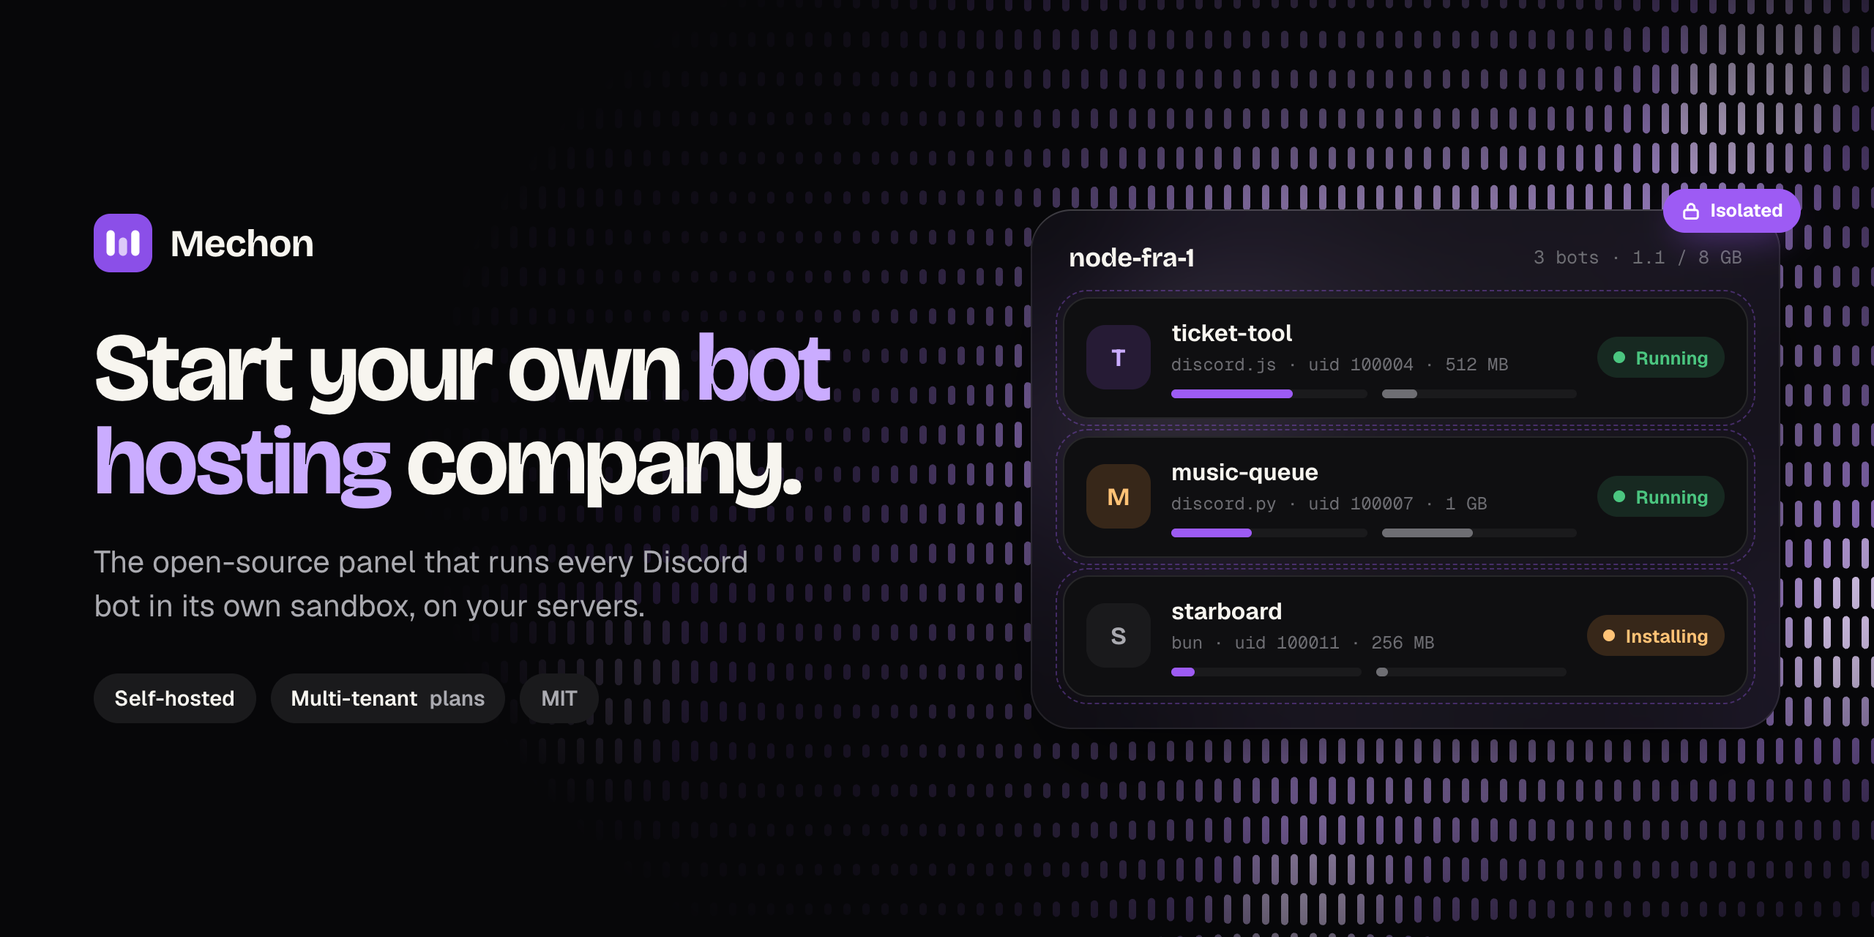
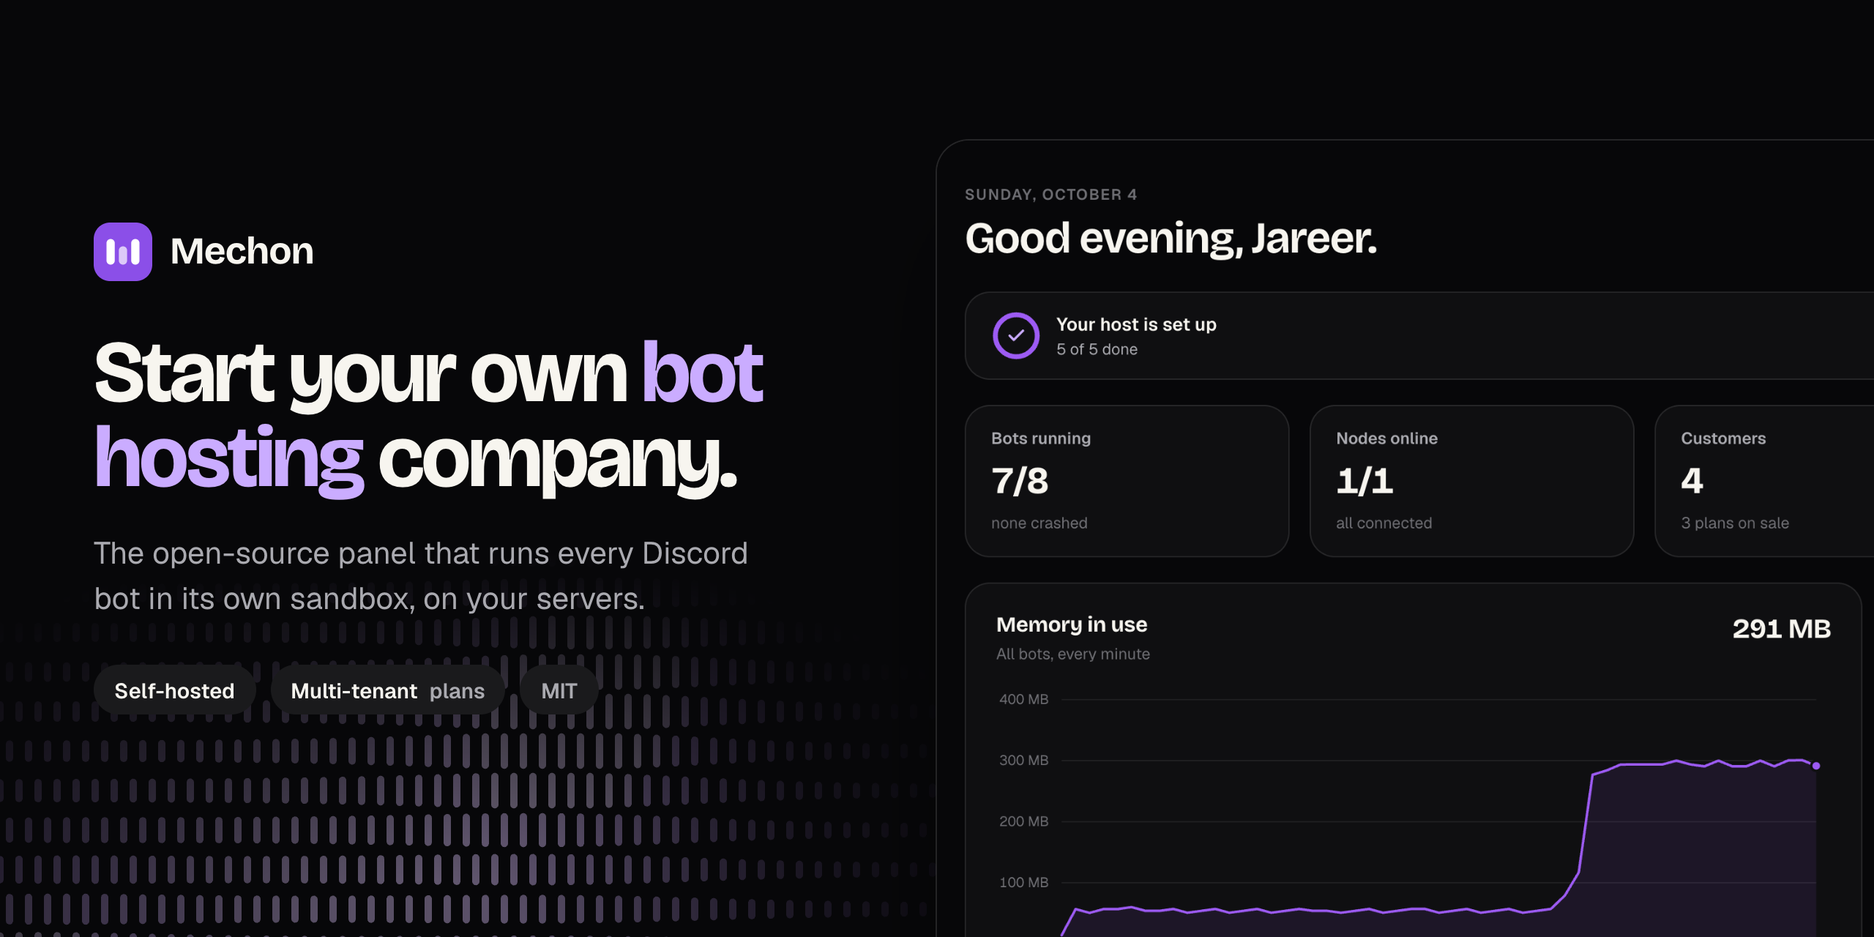
README rewrite with real screenshots of the panel
- Half the length: about, six highlights, a screenshot gallery, the
  math, a three-line quick start and the preview note
- Every image is a real screenshot of the panel running real demo bots
  in the sandbox, framed for both GitHub themes; assets/src/screens.sh
  regenerates them, and the social preview banner now crops the real
  dashboard instead of an illustration
- make run serves the built panel on :8080 for the quick start
- Fix: template badges are readable in the light theme, and the size
  cards no longer orphan their last line

diff --git a/assets/src/banner.html b/assets/src/banner.html
@@ -1,7 +1,7 @@
 <!doctype html>
 <!--
-  Source for assets/banner.png (README hero and GitHub social preview, 1280x640).
-  Render: node assets/src/render.mjs  (needs Chrome and `pnpm install` in web/ for the fonts)
+  Source for assets/banner.png (GitHub social preview, 1280x640). The right side is a real
+  screenshot of the dashboard (shot.png, written by screens.sh). Render: node assets/src/render.mjs
 -->
 <html lang="en">
 <head>
@@ -33,15 +33,15 @@
   html, body { width: 1280px; height: 640px; overflow: hidden; background: var(--bg); color: var(--fg); font-family: Geist, system-ui, sans-serif; -webkit-font-smoothing: antialiased; }
 
   canvas { position: absolute; inset: 0; width: 100%; height: 100%;
-    -webkit-mask-image: radial-gradient(ellipse 70% 90% at 78% 50%, black 30%, transparent 80%); }
+    -webkit-mask-image: radial-gradient(ellipse 55% 60% at 22% 100%, black 10%, transparent 70%); opacity: 0.5; }
 
-  .wrap { position: relative; height: 100%; display: grid; grid-template-columns: 600px 1fr; align-items: center; padding: 0 64px; gap: 40px; }
+  .wrap { position: relative; height: 100%; display: grid; grid-template-columns: 540px; align-items: center; padding: 0 64px; }
 
   .brand { display: flex; align-items: center; gap: 12px; }
   .brand svg { width: 40px; height: 40px; }
   .brand span { font-family: Bricolage; font-weight: 700; font-size: 26px; letter-spacing: -0.02em; }
 
-  h1 { margin-top: 34px; font-family: Bricolage; font-weight: 700; font-size: 66px; line-height: 0.96; letter-spacing: -0.035em; font-variation-settings: "opsz" 96; }
+  h1 { margin-top: 34px; font-family: Bricolage; font-weight: 700; font-size: 60px; line-height: 0.96; letter-spacing: -0.035em; font-variation-settings: "opsz" 96; }
   h1 em { font-style: normal; color: var(--brand-text); }
   p.lede { margin-top: 22px; font-size: 21px; line-height: 1.45; color: var(--muted); max-width: 34ch; }
 
@@ -49,33 +49,11 @@
   .chip { height: 34px; display: inline-flex; align-items: center; gap: 8px; padding: 0 14px; border-radius: 999px; background: var(--surface-2); color: var(--muted); font-size: 14.5px; font-weight: 600; }
   .chip b { color: var(--fg); font-weight: 600; }
 
-  /* Right: the node, with three bots in their own lanes */
-  .node { position: relative; border-radius: 28px; padding: 22px;
-    background: color-mix(in oklab, var(--surface) 55%, transparent);
-    backdrop-filter: blur(24px) saturate(1.6);
-    box-shadow: inset 0 0 0 1px oklch(1 0 0 / 0.08), inset 0 1px 0 oklch(1 0 0 / 0.12), 0 30px 60px -30px oklch(0 0 0 / 0.8); }
-  .node-head { display: flex; justify-content: space-between; align-items: center; padding: 0 4px 16px; }
-  .node-head .name { font-family: Bricolage; font-weight: 700; font-size: 18px; letter-spacing: -0.01em; }
-  .node-head .meta { font-family: GeistMono; font-size: 12.5px; color: var(--faint); }
-
-  .lane { position: relative; display: grid; grid-template-columns: 44px 1fr auto; gap: 14px; align-items: center; padding: 14px 16px; border-radius: 18px; background: var(--surface); box-shadow: inset 0 0 0 1px var(--border); }
-  .lane + .lane { margin-top: 12px; }
-  /* dashed outline = the sandbox wall */
-  .lane::after { content: ""; position: absolute; inset: -5px; border-radius: 22px; border: 1.5px dashed oklch(0.62 0.22 300 / 0.35); pointer-events: none; }
-  .avatar { width: 44px; height: 44px; border-radius: 13px; display: grid; place-items: center; font-family: Bricolage; font-weight: 700; font-size: 17px; }
-  .lane .title { font-weight: 650; font-size: 16px; }
-  .lane .sub { margin-top: 3px; font-family: GeistMono; font-size: 12px; color: var(--faint); }
-  .bars { margin-top: 9px; display: grid; grid-template-columns: 1fr 1fr; gap: 10px; }
-  .bar { height: 6px; border-radius: 99px; background: var(--surface-2); overflow: hidden; }
-  .bar i { display: block; height: 100%; border-radius: 99px; background: var(--brand); }
-  .bar.cpu i { background: var(--faint); }
-  .state { height: 28px; display: inline-flex; align-items: center; gap: 7px; padding: 0 11px; border-radius: 999px; font-size: 12.5px; font-weight: 650; }
-  .state .dot { width: 8px; height: 8px; border-radius: 99px; background: currentColor; }
-  .running { background: var(--success-soft); color: var(--success); }
-  .installing { background: var(--orange-soft); color: var(--orange-text); }
-
-  .lock { position: absolute; right: -14px; top: -14px; height: 30px; display: inline-flex; align-items: center; gap: 6px; padding: 0 12px; border-radius: 999px; background: var(--brand); color: white; font-size: 12.5px; font-weight: 700; box-shadow: 0 10px 24px -10px oklch(0.62 0.22 300 / 0.8); }
-  .lock svg { width: 14px; height: 14px; }
+  /* Right: a real screenshot of the dashboard, bleeding off the right and bottom edges. */
+  .shot { position: absolute; left: 640px; top: 96px; width: 900px; height: 600px; border-radius: 22px; overflow: hidden;
+    box-shadow: 0 0 0 1px oklch(1 0 0 / 0.12), 0 40px 80px -30px oklch(0 0 0 / 0.9); }
+  /* Crop to the main content (the sidebar is 264px wide) so nothing is cut mid-word. */
+  .shot img { display: block; width: 1440px; transform-origin: 0 0; transform: scale(0.86) translate(-290px, -14px); }
 </style>
 </head>
 <body>
@@ -95,43 +73,7 @@
     </div>
   </div>
 
-  <div class="node">
-    <span class="lock"><svg viewBox="0 0 24 24" fill="none" stroke="currentColor" stroke-width="2.6" stroke-linecap="round" stroke-linejoin="round"><rect x="4" y="11" width="16" height="10" rx="2.5"/><path d="M8 11V8a4 4 0 0 1 8 0v3"/></svg>Isolated</span>
-    <div class="node-head">
-      <span class="name">node-fra-1</span>
-      <span class="meta">3 bots · 1.1 / 8 GB</span>
-    </div>
-
-    <div class="lane">
-      <span class="avatar" style="background:var(--brand-soft);color:var(--brand-text)">T</span>
-      <div>
-        <div class="title">ticket-tool</div>
-        <div class="sub">discord.js · uid 100004 · 512 MB</div>
-        <div class="bars"><span class="bar"><i style="width:62%"></i></span><span class="bar cpu"><i style="width:18%"></i></span></div>
-      </div>
-      <span class="state running"><span class="dot"></span>Running</span>
-    </div>
-
-    <div class="lane">
-      <span class="avatar" style="background:var(--orange-soft);color:var(--orange-text)">M</span>
-      <div>
-        <div class="title">music-queue</div>
-        <div class="sub">discord.py · uid 100007 · 1 GB</div>
-        <div class="bars"><span class="bar"><i style="width:41%"></i></span><span class="bar cpu"><i style="width:47%"></i></span></div>
-      </div>
-      <span class="state running"><span class="dot"></span>Running</span>
-    </div>
-
-    <div class="lane">
-      <span class="avatar" style="background:var(--surface-2);color:var(--muted)">S</span>
-      <div>
-        <div class="title">starboard</div>
-        <div class="sub">bun · uid 100011 · 256 MB</div>
-        <div class="bars"><span class="bar"><i style="width:12%"></i></span><span class="bar cpu"><i style="width:6%"></i></span></div>
-      </div>
-      <span class="state installing"><span class="dot"></span>Installing</span>
-    </div>
-  </div>
+  <div class="shot"><img src="shot.png" alt="" /></div>
 </div>
 
 <script>
@@ -143,7 +85,7 @@
   const ctx = c.getContext('2d'); ctx.scale(dpr, dpr)
   const VIOLET = [139, 79, 232], GLINT = [233, 213, 255]
   const mix = (a, b, t) => a.map((v, i) => Math.round(v + (b[i] - v) * t))
-  const px = 980, py = 300, t = 5200
+  const px = 260, py = 600, t = 5200
   for (let r = 0; r < h / 27 + 1; r++) {
     const ox = r % 2 ? 6.5 : 0, y = r * 27
     for (let col = 0; col < w / 13 + 1; col++) {

diff --git a/web/src/routes/bots.tsx b/web/src/routes/bots.tsx
@@ -22,8 +22,8 @@ import { bytes, cores, mb, pct } from '@/lib/format'
 import { cn } from '@/lib/utils'
 
 export const templateTint: Record<string, string> = {
-  'discord-js': 'bg-[oklch(0.62_0.16_145/0.16)] text-[oklch(0.78_0.14_145)]',
-  'discord-py': 'bg-[oklch(0.65_0.13_245/0.18)] text-[oklch(0.8_0.1_245)]',
+  'discord-js': 'bg-[oklch(0.62_0.16_145/0.16)] text-[oklch(0.48_0.13_145)] dark:text-[oklch(0.78_0.14_145)]',
+  'discord-py': 'bg-[oklch(0.65_0.13_245/0.18)] text-[oklch(0.48_0.13_245)] dark:text-[oklch(0.8_0.1_245)]',
   bun: 'bg-orange-soft text-orange-text',
 }
 
@@ -279,8 +279,10 @@ function NewBotForm({ onDone }: { onDone: () => void }) {
                 )}
               >
                 <span className="block text-[15px] font-semibold">{s.label}</span>
-                <span className="mt-0.5 block font-mono text-[12px] text-muted-foreground">
-                  {mb(s.memoryMb)} · {cores(s.cpuMillicores)} · {mb(s.diskMb)}
+                <span className="mt-1 block font-mono text-[12px] leading-relaxed text-muted-foreground">
+                  {mb(s.memoryMb)} · {cores(s.cpuMillicores)}
+                  <br />
+                  {mb(s.diskMb)} disk
                 </span>
               </button>
             )

diff --git a/assets/src/frame.py b/assets/src/frame.py
@@ -1,0 +1,31 @@
+"""Frame a raw panel screenshot for the README: rounded corners, a hairline border and a soft
+shadow on a transparent canvas, so it sits well on GitHub's light and dark themes.
+
+    python3 assets/src/frame.py in.png out.png [--crop x,y,w,h]
+"""
+import sys
+from PIL import Image, ImageDraw, ImageFilter
+
+def frame(src, dst, crop=None, radius=28, pad=56, border=(255, 255, 255, 34)):
+    shot = Image.open(src).convert("RGBA")
+    if crop:
+        x, y, w, h = crop
+        shot = shot.crop((x, y, x + w, y + h))
+    w, h = shot.size
+    mask = Image.new("L", (w, h), 0)
+    ImageDraw.Draw(mask).rounded_rectangle((0, 0, w - 1, h - 1), radius=radius, fill=255)
+    shot.putalpha(mask)
+
+    canvas = Image.new("RGBA", (w + pad * 2, h + pad * 2), (0, 0, 0, 0))
+    shadow = Image.new("RGBA", canvas.size, (0, 0, 0, 0))
+    ImageDraw.Draw(shadow).rounded_rectangle((pad, pad + 18, pad + w, pad + h + 18), radius=radius, fill=(0, 0, 0, 110))
+    canvas = Image.alpha_composite(canvas, shadow.filter(ImageFilter.GaussianBlur(26)))
+    canvas.alpha_composite(shot, (pad, pad))
+    ImageDraw.Draw(canvas).rounded_rectangle((pad, pad, pad + w - 1, pad + h - 1), radius=radius, outline=border, width=2)
+    canvas.save(dst, optimize=True)
+
+if __name__ == "__main__":
+    crop = None
+    if "--crop" in sys.argv:
+        crop = tuple(int(v) for v in sys.argv[sys.argv.index("--crop") + 1].split(","))
+    frame(sys.argv[1], sys.argv[2], crop)

diff --git a/README.md b/README.md
@@ -6,15 +6,15 @@
     </td>
     <td>
       <h1>Mechon</h1>
-      <h3>Start your own bot hosting company. The open-source, self-hosted panel that runs every Discord bot in its own sandbox.</h3>
+      <h3>Start your own bot hosting company. A self-hosted panel that runs every Discord bot in its own sandbox.</h3>
     </td>
   </tr>
 </table>
 
-<img src="assets/banner.png" alt="Mechon: start your own bot hosting company" width="100%" />
+<img src="assets/screens/overview.png" alt="The Mechon dashboard: bots by state, memory in use, deploys and node capacity" width="100%" />
 
 <p align="center">
-  <img src="https://img.shields.io/badge/Status-Pre--alpha-F59E0B?style=flat-square&labelColor=212123" alt="Status: pre-alpha" />
+  <img src="https://img.shields.io/badge/Status-Preview-F59E0B?style=flat-square&labelColor=212123" alt="Status: preview" />
   <a href="LICENSE"><img src="https://img.shields.io/badge/License-MIT-8B4FE8?style=flat-square&labelColor=212123" alt="License: MIT" /></a>
   <img src="https://img.shields.io/badge/Built%20with-Go-8B4FE8?style=flat-square&logo=go&logoColor=F8F8F8&labelColor=212123" alt="Built with Go" />
   <img src="https://img.shields.io/badge/Runs%20on-Linux-8B4FE8?style=flat-square&logo=linux&logoColor=F8F8F8&labelColor=212123" alt="Runs on Linux" />
@@ -23,117 +23,62 @@
 
 </div>
 
-> [!WARNING]
-> Mechon was rebuilt from scratch and is in **preview**: everything works end to end, but nothing has run in production yet. See [where it stands](#status) and star or watch the repo to follow along.
-
 ## About
 
-Mechon is a control panel for running a bot hosting business on your own servers. Install it, define the plans you sell, and give bot developers a clean place to deploy their bots, watch the logs and hit restart. Think Pterodactyl, but built for bots instead of game servers.
+Mechon is Pterodactyl for bots. Install it on your servers, define the plans you sell, and your customers get a clean panel to deploy their bots, watch the logs and hit restart. You keep the servers, the customers and the money.
 
-The part that matters is isolation. Every bot runs in its own locked-down container, as its own Linux user, with memory, CPU, process and disk limits the kernel enforces. A customer's bot cannot read another customer's token, touch their files, or starve their neighbours.
-
-**Good for:** starting a Discord bot hosting company, adding bot hosting to an existing host, communities that host their members' bots, agencies running bots for clients. Next up: always-on AI agents and Telegram and Slack bots.
+Every bot runs in its own locked-down container as its own Linux user, with memory, CPU, process and disk limits the kernel enforces. One customer's bot cannot read another's token, touch their files or starve their neighbours.
 
 ## Highlights
 
-- 🔒 **Every bot in its own sandbox.** Its own container and Linux user, a read-only filesystem, no capabilities, no route to other bots or your private network.
-- 📏 **Limits the kernel enforces.** Memory, CPU and process caps through cgroups, and a fixed-size disk per bot. Nothing gets polled and killed late.
-- 🧾 **Plans and quotas.** Sell pools of bots, memory, CPU and disk. Every request is checked against the plan on the server.
-- 💳 **Plugs into your billing.** An operator API and signed webhooks for Paymenter, WHMCS or Stripe. Mechon does not do billing and does not take a cut.
-- 🚀 **Deploy any way.** Templates for discord.js, discord.py and Bun. Upload a folder, deploy from git, or ship from CI with an API key.
-- 📟 **Live console and metrics.** Logs stream as they happen. CPU and memory per bot, and capacity per server.
-- 🧱 **No open ports on your nodes.** The node agent dials out to the panel, so servers can sit behind NAT or a firewall.
-- 🛡 **A hardened tier.** Switch a plan to gVisor for an extra kernel boundary between customers.
-- 📦 **Two binaries, no sprawl.** The panel (web UI built in) plus Postgres, and one agent per server next to Docker. No Kubernetes, no Redis.
-- 🎨 **A panel people enjoy using.** Dark and light themes, <kbd>⌘</kbd> <kbd>K</kbd> everywhere.
+- 🔒 **A sandbox per bot.** Read-only filesystem, no capabilities, no route to other bots or your private network.
+- 🧾 **Plans and quotas.** Sell pools of bots, memory, CPU and disk, with per-customer overrides when you need them.
+- 🚀 **Deploy any way.** discord.js, discord.py and Bun templates. Upload a folder, deploy from git, or ship from CI.
+- 📟 **Live console and metrics.** Logs as they happen, usage per bot, capacity per server.
+- 💳 **Plugs into your billing.** An API and signed webhooks for Paymenter, WHMCS or Stripe. No cut, no lock-in.
+- 📦 **Two binaries.** The panel with Postgres, and one agent per server next to Docker. Nodes dial out, so no ports to open.
 
-## The panel
+## Screenshots
 
-<img src="assets/panel-login.jpg" alt="The Mechon sign-in page" width="100%" />
-
-## Why not something else?
-
-|  | **Mechon** | Pterodactyl | Coolify |
-|---|---|---|---|
-| Built for | Bots and agents | Game servers | Web apps |
-| Sell hosting to customers with plans | ✅ | ✅ | ❌ |
-| Per-customer quotas enforced by the server | ✅ | ✅ | ❌ |
-| Bot templates out of the box | ✅ | Community eggs | Dockerfiles |
-| Nodes need no inbound ports | ✅ | ❌ | ❌ |
-| License | MIT | MIT | Apache 2.0 |
+<table>
+  <tr>
+    <td width="50%"><img src="assets/screens/console.png" alt="A bot's live console with memory, CPU and disk usage" /><p align="center"><sub>Live console and usage for every bot</sub></p></td>
+    <td width="50%"><img src="assets/screens/deploys.png" alt="Deploy history with a rollback" /><p align="center"><sub>Deploys by upload, git or API, with rollback</sub></p></td>
+  </tr>
+  <tr>
+    <td width="50%"><img src="assets/screens/new-bot.png" alt="Creating a bot from a template" /><p align="center"><sub>Pick a template and a size, paste the token</sub></p></td>
+    <td width="50%"><img src="assets/screens/bots-light.png" alt="The bot list in the light theme" /><p align="center"><sub>Every bot at a glance, dark or light</sub></p></td>
+  </tr>
+</table>
 
 ## The math
 
-One [Hetzner AX41](https://www.hetzner.com/dedicated-rootserver/?drives=nvme) costs **about $65 a month** (billed as €59): 6 cores (12 threads), 64 GB of RAM and 2× 512 GB NVMe. Keep 4 GB for the system and Mechon, and you have about 60 GB of memory to sell. Memory is what runs out first: Discord bots spend most of their time waiting on the gateway, so CPU can be shared safely and disk is plentiful.
+One [Hetzner AX41](https://www.hetzner.com/dedicated-rootserver/?drives=nvme) costs **about $65 a month**: 6 cores, 64 GB of RAM, 2× 512 GB NVMe. Keep 4 GB for the system and you have about 60 GB to sell. Bots mostly wait on the network, so memory runs out first.
 
 | Plan (example price) | Per bot | Bots per server | Revenue / month | Profit / month |
 |---|---|---|---|---|
-| Starter · $1.50 | 256 MB RAM, ¼ core, 1 GB disk | 240 | $360 | **$295** |
-| Standard · $2.50 | 512 MB RAM, ½ core, 2 GB disk | 120 | $300 | **$235** |
-| Pro · $4.50 | 1 GB RAM, 1 core, 5 GB disk | 60 | $270 | **$205** |
-| Standard, 60% full | 512 MB RAM, ½ core, 2 GB disk | 72 | $180 | **$115** |
+| Starter · $1.50 | 256 MB, ¼ core, 1 GB disk | 240 | $360 | **$295** |
+| Standard · $2.50 | 512 MB, ½ core, 2 GB disk | 120 | $300 | **$235** |
+| Pro · $4.50 | 1 GB, 1 core, 5 GB disk | 60 | $270 | **$205** |
 
-One server pays for itself at around 26 Standard customers. Every server after that is the same math again, and Mechon is free. The dollar cost follows the euro exchange rate; taxes, payment fees, support time and backups are yours to add, and the prices are examples, so set your own.
+A server pays for itself at about 26 Standard customers. Taxes, payment fees and support are yours to add.
 
-## Status
+## Get started
 
-Every v0 milestone in [the spec](docs/spec-v0.md) is built and tested end to end, from the panel to a real bot running in its sandbox. It has not been run in production yet, and no release has been tagged, so treat it as a preview. Every decision behind it is in [the decision log](docs/decisions.md).
-
-- ✅ **Panel and sign-in.** One binary with the web UI built in, Postgres, admin and user roles, API keys.
-- ✅ **Plans, users and quotas.** Pools of bots, memory, CPU and disk per plan, per-customer overrides, enforced on the server.
-- ✅ **Nodes.** The agent dials out, reports capacity and converges on what the panel wants.
-- ✅ **Sandboxed bots.** Own container and Linux user, read-only root, no capabilities, cgroup limits, a disk image per bot, an egress firewall; twelve isolation attacks in the test suite all fail.
-- ✅ **Deploys.** Upload, git or API, install in a throwaway container, rollback, live console and metrics.
-- ✅ **For your billing system.** Operator API, signed webhooks with retries, audit log.
-- 🚧 **Next.** A CLI, agent templates (OpenClaw), the gVisor tier tested on real hosts, and the first tagged release.
-
-## How it works
-
-```
-  customers ──HTTPS──▶  mechon (panel)  ◀──WebSocket, dialed by the agent──  mechon-agent ──▶ Docker
-  your billing ──API──▶ • web UI + API                                       (one per server)  └ one sandbox per bot
-                        • Postgres
-```
-
-The panel holds the desired state of every bot. Each server runs an agent that connects out to the panel, receives the full description of the bots it should run, and makes reality match. Drop the connection or reboot the server and it heals itself on reconnect.
-
-## Try it
-
-Mechon is not packaged yet. To run the development build you need Go 1.25+, Node 22+ with pnpm, and Postgres 15+.
+Running it on a server: follow the [install guide](docs/install.md). Trying it locally needs Go, Node with pnpm, and Postgres:
 
 ```bash
 git clone https://github.com/jub0t/mechon && cd mechon
-createdb mechon_dev
-make web          # build the web UI so the binary can embed it
-make seed         # create a local admin: admin@mechon.test / dev-password-123
-make dev-panel    # API on :8080
-make dev-web      # UI with hot reload on :5173
+createdb mechon_dev && make web && make seed   # admin@mechon.test / dev-password-123
+make run                                       # then open http://localhost:8080
 ```
 
-Open http://localhost:5173 and sign in. Those credentials are for local development only. On a real install, create the first admin with `mechon init --email you@example.com`.
-
-To run Mechon on a real server, follow the [install guide](docs/install.md).
-
-<details>
-<summary><b>Configuration and tests</b></summary>
-
-| Variable | Meaning |
-|---|---|
-| `MECHON_DATABASE_URL` | Postgres connection string (required) |
-| `MECHON_PUBLIC_URL` | URL browsers use to reach the panel (required; sets the allowed origin and secure cookies) |
-| `MECHON_LISTEN` | Listen address, default `:8080` |
-| `MECHON_TRUST_PROXY` | `true` to take the client IP from `X-Forwarded-For` behind a reverse proxy |
-
-Tests: `createdb mechon_test && make test`. The Go integration tests run against a real Postgres and wipe that database on every run.
-
-</details>
+> [!WARNING]
+> Mechon is in **preview**. Every [milestone](docs/spec-v0.md#11-build-order) is built and tested end to end, including a suite of isolation attacks that must all fail, but it has not run in production yet. Next up: a CLI, AI agent templates and the first release.
 
 ## Contributing
 
-> [!IMPORTANT]
-> The most useful thing right now is to tell us what you need. Run a bot host, or want to? [Open an issue](https://github.com/jub0t/mechon/issues) with what your panel does badly today and what would make you switch.
->
-> Want to write code? Read [the spec](docs/spec-v0.md) first: it says what is being built, in what order, and why.
+Run a bot host, or want to? [Open an issue](https://github.com/jub0t/mechon/issues) with what your panel does badly today. Want to write code? The [spec](docs/spec-v0.md) and the [decision log](docs/decisions.md) explain what is being built and why.
 
 ## Star History
 
@@ -147,4 +92,4 @@ Tests: `createdb mechon_test && make test`. The Go integration tests run against
 
 ## License
 
-[MIT](LICENSE). Host it, modify it, sell hosting with it.
+[MIT](LICENSE). Host it, change it, sell hosting with it.
